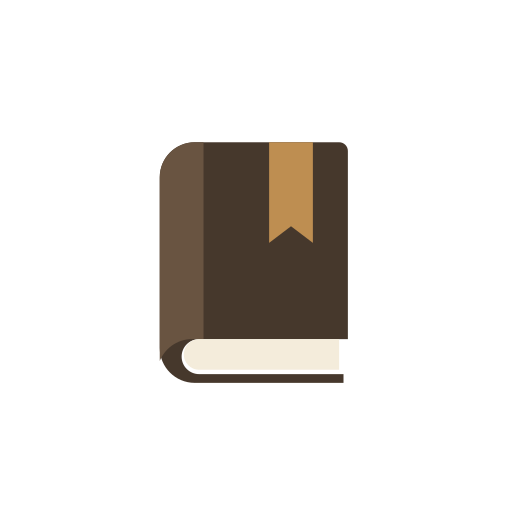
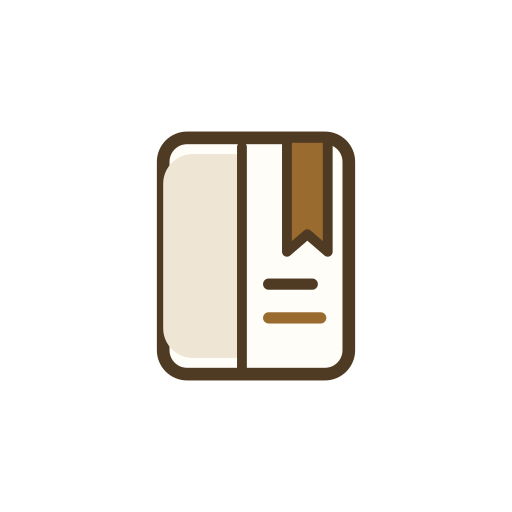
fix: 恢复原线条书封图标并更新各入口引用

Changed region(s): [[0.2812, 0.25, 0.7188, 0.75]]

diff --git a/.nextjs-site/app/layout.tsx b/.nextjs-site/app/layout.tsx
@@ -14,8 +14,8 @@ export const metadata: Metadata = {
   keywords: ['晨笙阅读', '书籍解读', '读书笔记', '主题阅读', '好书精读', '投资', '心理学', '个人成长', '商业管理'],
   manifest: '/manifest.webmanifest',
   icons: {
-    icon: '/icon.svg?v=4',
-    apple: '/apple-touch-icon.png?v=4',
+    icon: '/icon.svg?v=5',
+    apple: '/apple-touch-icon.png?v=5',
   },
   appleWebApp: {
     capable: true,
@@ -30,7 +30,7 @@ export const metadata: Metadata = {
     locale: 'zh_CN',
     images: [
       {
-        url: BASE_URL + '/share-image.png',
+        url: BASE_URL + '/share-image.png?v=5',
         width: 512,
         height: 512,
         alt: BRAND_NAME,
@@ -41,7 +41,7 @@ export const metadata: Metadata = {
     card: 'summary',
     title: SITE_TITLE,
     description: SITE_DESCRIPTION,
-    images: [BASE_URL + '/share-image.png'],
+    images: [BASE_URL + '/share-image.png?v=5'],
   },
 };
 

diff --git a/.nextjs-site/app/topics/[slug]/page.tsx b/.nextjs-site/app/topics/[slug]/page.tsx
@@ -38,7 +38,7 @@ export async function generateMetadata({ params }: TopicPageProps): Promise<Meta
     other: { 'ai-reading-content': getContentVersion(`/topics/${topic.slug}/`) },
     keywords: [topic.title, '主题阅读', ...topic.tags], alternates: { canonical: url },
     openGraph: { title: topic.title, description: topic.description, url, type: 'article', locale: 'zh_CN', siteName: BRAND_NAME,
-      images: [{ url: `${BASE_URL}/share-image.png`, width: 512, height: 512, alt: topic.title }] } };
+      images: [{ url: `${BASE_URL}/share-image.png?v=5`, width: 512, height: 512, alt: topic.title }] } };
 }
 export default async function TopicPage({ params }: TopicPageProps) {
   const { slug } = await params;

diff --git a/.nextjs-site/app/books/[slug]/page.tsx b/.nextjs-site/app/books/[slug]/page.tsx
@@ -86,7 +86,7 @@ export async function generateMetadata({ params }: BookPageProps) {
       siteName: BRAND_NAME,
       images: [
         {
-          url: `${BASE_URL}/share-image.png`,
+          url: `${BASE_URL}/share-image.png?v=5`,
           width: 512,
           height: 512,
           alt: book.title,
@@ -97,7 +97,7 @@ export async function generateMetadata({ params }: BookPageProps) {
       card: 'summary',
       title: shareTitle,
       description,
-      images: [`${BASE_URL}/share-image.png`],
+      images: [`${BASE_URL}/share-image.png?v=5`],
     },
   };
 }

diff --git a/.nextjs-site/app/page.tsx b/.nextjs-site/app/page.tsx
@@ -23,7 +23,7 @@ export const metadata: Metadata = {
     locale: 'zh_CN',
     images: [
       {
-        url: `${BASE_URL}/share-image.png`,
+        url: `${BASE_URL}/share-image.png?v=5`,
         width: 512,
         height: 512,
         alt: BRAND_NAME,
@@ -70,7 +70,7 @@ const websiteJsonLd = {
       description: SITE_DESCRIPTION,
       logo: {
         '@type': 'ImageObject',
-        url: `${BASE_URL}/icon-512.png`,
+        url: `${BASE_URL}/icon-512.png?v=5`,
         width: 512,
         height: 512,
       },

diff --git a/.nextjs-site/public/sw.js b/.nextjs-site/public/sw.js
@@ -1,6 +1,6 @@
 const CACHE_NAME = 'reading-v2';
-const INSTALL_ICONS = ['/icon-192.png?v=4', '/icon-512.png?v=4'];
-const PRECACHE_URLS = ['/', '/manifest.webmanifest', '/icon.svg?v=4', ...INSTALL_ICONS];
+const INSTALL_ICONS = ['/icon-192.png?v=5', '/icon-512.png?v=5'];
+const PRECACHE_URLS = ['/', '/manifest.webmanifest', '/icon.svg?v=5', ...INSTALL_ICONS];
 
 self.addEventListener('install', event => {
   event.waitUntil(caches.open(CACHE_NAME).then(cache => cache.addAll(PRECACHE_URLS)));

diff --git a/.nextjs-site/app/about/page.tsx b/.nextjs-site/app/about/page.tsx
@@ -34,7 +34,7 @@ const aboutJsonLd = {
     '@id': `${BASE_URL}/#organization`,
     name: BRAND_NAME,
     url: `${BASE_URL}/`,
-    logo: `${BASE_URL}/icon-512.png`,
+    logo: `${BASE_URL}/icon-512.png?v=5`,
     founder: {
       '@type': 'Person',
       '@id': 'https://cearl.cc/#person',
